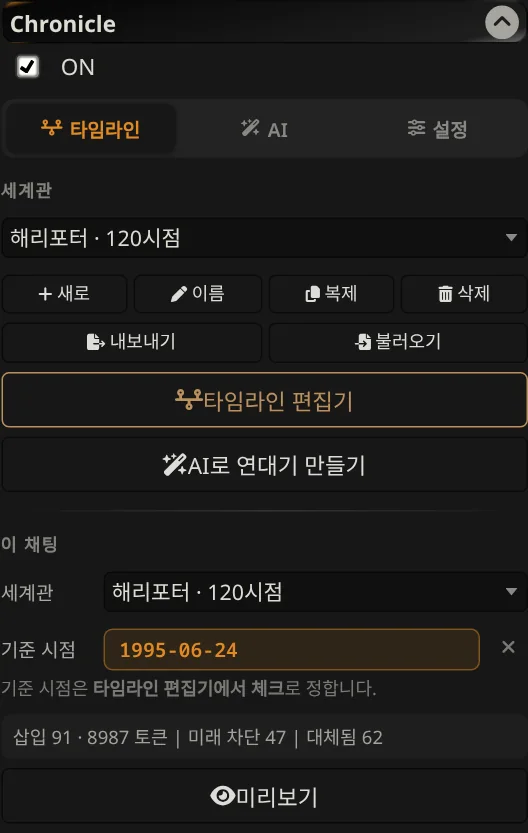
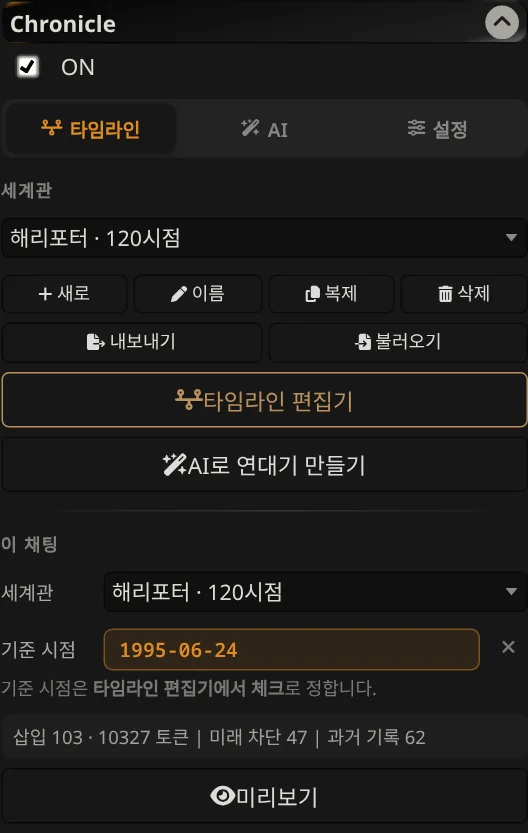
v3.3: superseded entries kept as PAST history by default; preview lists replaced entries
- New setting: replaced earlier entries → mark as PAST (default) or leave out
- Prompt note explains PAST entries are history and the latest entry is the current state
- Preview shows which entries were superseded and by which date
- Guide and screenshots updated

Claude-Session: https://claude.ai/code/session_01QCB5LBDuMd32iDADcpMM5K

Changed region(s): [[0.0909, 0.8739, 0.8182, 0.9052]]

diff --git a/index.js b/index.js
@@ -68,6 +68,11 @@ const SECRET_NOTE =
     'Entries marked SECRET are true, but hidden. Only the characters listed after "known only to" know them. ' +
     'Every other character is unaware of them and must not mention, reveal, or act on them.';
 
+/** Appended automatically when superseded entries are kept as history. */
+const PAST_NOTE =
+    'Entries marked PAST describe an earlier state of that character or relationship. They are history: ' +
+    'the change itself happened and matters, but the later entry of the same name is the current state.';
+
 const DEFAULT_AI_SYSTEM =
     'You compile a chronicle: a chronological record of a world (fictional or real) that will be used as background reference for roleplay. ' +
     'Record what happens in the world and the state of its people, relationships and setting at each point in time. ' +
@@ -123,6 +128,7 @@ const DEFAULT_SETTINGS = {
     position: 'before',
     depth: 4,
     role: 0,
+    replacedMode: 'past',     // past = keep earlier entries marked PAST | drop = leave them out
 
     header: DEFAULT_HEADER,
     debug: false,
@@ -132,7 +138,7 @@ const DEFAULT_SETTINGS = {
 
 const ADVANCED_KEYS = [
     'tokenBudget', 'recencyWeight', 'constantBonus', 'keywordBonus', 'scanDepth',
-    'position', 'depth', 'role', 'header',
+    'position', 'depth', 'role', 'header', 'replacedMode',
 ];
 
 // ==================================================================
@@ -497,11 +503,12 @@ function hasKeywordHit(block, scanText) {
     return keys.some(k => keywordMatches(String(k), scanText));
 }
 
-/** One prompt line (labels are always English) */
-function renderBlockLine(block) {
+/** One prompt line (labels are always English). pastBy = date of the entry that supersedes it. */
+function renderBlockLine(block, pastBy = '') {
     const t = BLOCK_TYPES[block.type] ?? BLOCK_TYPES.story;
     let label = t.en;
     if (t.named && block.name) label += ` (${block.name})`;
+    if (pastBy) label += ` [PAST, superseded on ${pastBy}]`;
     if (block.secret) label += block.knownBy ? ` [SECRET, known only to: ${block.knownBy}]` : ' [SECRET]';
     return `${label}: ${String(block.content).trim()}`;
 }
@@ -539,7 +546,7 @@ async function buildPacket() {
     const s = getSettings();
     const world = getActiveWorld();
     const conf = getChatConf();
-    const base = { text: '', used: [], dropped: [], excluded: 0, replaced: 0, tokens: 0, pinnedTokens: 0, world, now: conf.now };
+    const base = { text: '', used: [], dropped: [], excluded: 0, replaced: 0, replacedList: [], replacedMode: s.replacedMode, tokens: 0, pinnedTokens: 0, world, now: conf.now };
 
     if (!s.enabled || !world) return base;
 
@@ -558,22 +565,31 @@ async function buildPacket() {
         for (const b of live) candidates.push({ node, block: b.constant === undefined ? { ...b, constant: true } : b, key });
     }
 
-    // 2) "replaces earlier": drop older entries of the same person/pair
-    const latestReplace = new Map();
+    // 2) "replaces earlier": older entries of the same person/pair are superseded.
+    //    past mode → kept, marked PAST (the history of the change still matters)
+    //    drop mode → left out
+    const latestReplace = new Map(); // nameKey → { key, date }
     for (const c of candidates) {
         if (!c.block.replaces || !c.block.name) continue; // replaces only exists on named types
         const nk = nameKey(c.block);
-        if (!latestReplace.has(nk) || latestReplace.get(nk) < c.key) latestReplace.set(nk, c.key);
+        const cur = latestReplace.get(nk);
+        if (!cur || cur.key < c.key) latestReplace.set(nk, { key: c.key, date: formatDate(c.node.date) });
     }
-    let replaced = 0;
+    const replacedList = [];
+    const dropReplaced = s.replacedMode === 'drop';
     if (latestReplace.size) {
         candidates = candidates.filter(c => {
-            const lim = latestReplace.get(nameKey(c.block));
-            if (lim !== undefined && c.block.name && c.key < lim) { replaced++; return false; }
+            const lim = c.block.name ? latestReplace.get(nameKey(c.block)) : undefined;
+            if (!lim || c.key >= lim.key) return true;
+            replacedList.push({ node: c.node, block: c.block, key: c.key, by: lim.date });
+            if (dropReplaced) return false;
+            c.pastBy = lim.date;
             return true;
         });
     }
-    if (!candidates.length) return { ...base, excluded, replaced };
+    const replaced = replacedList.length;
+    const rbase = { ...base, excluded, replaced, replacedList };
+    if (!candidates.length) return rbase;
 
     // 3) inclusion (pinned or keyword hit)
     const scanText = getScanText(s.scanDepth);
@@ -583,7 +599,7 @@ async function buildPacket() {
         if (!c.block.constant && !hit) continue;
         picked.push({ ...c, hit });
     }
-    if (!picked.length) return { ...base, excluded, replaced };
+    if (!picked.length) return rbase;
 
     // 4) score — recency by rank (position in the timeline), not by date distance
     const ranks = [...new Set(picked.map(p => p.key))].sort((a, b) => a - b);
@@ -600,12 +616,11 @@ async function buildPacket() {
     // 5) fill the budget by score — the header is part of the budget too
     const nowLabel = conf.now ? formatDate(conf.now) : 'unrestricted';
     const baseHeader = String(s.header || '').replaceAll('{{now}}', nowLabel).trim();
-    const makeHead = (withSecret) => {
-        const h = withSecret ? (baseHeader ? baseHeader + '\n' : '') + SECRET_NOTE : baseHeader;
+    const makeHead = (withSecret, withPast) => {
+        const h = [baseHeader, withSecret ? SECRET_NOTE : '', withPast ? PAST_NOTE : ''].filter(Boolean).join('\n');
         return `<chronicle current_time="${esc(nowLabel)}">\n` + (h ? h + '\n\n' : '');
     };
-    const anySecret = picked.some(p => p.block.secret);
-    const reserve = await countTokens(makeHead(anySecret) + '\n</chronicle>');
+    const reserve = await countTokens(makeHead(picked.some(p => p.block.secret), picked.some(p => p.pastBy)) + '\n</chronicle>');
     const budget = Math.max(0, Number(s.tokenBudget || 0) - reserve);
     const byScore = [...picked].sort((a, b) => (b.score - a.score) || (b.key - a.key));
     const used = [], dropped = [];
@@ -614,7 +629,7 @@ async function buildPacket() {
     const pinnedNodes = new Set();
 
     for (const p of byScore) {
-        p.line = renderBlockLine(p.block);
+        p.line = renderBlockLine(p.block, p.pastBy);
         const nodeCost = seenNodes.has(p.node.id) ? 0 : 6;
         // Only run the real tokenizer when the line could still fit; a cheap
         // lower-bound estimate rules out the rest (big speed-up on large worlds).
@@ -629,7 +644,7 @@ async function buildPacket() {
         seenNodes.add(p.node.id);
         used.push(p);
     }
-    if (!used.length) return { ...base, excluded, replaced, dropped, pinnedTokens };
+    if (!used.length) return { ...rbase, dropped, pinnedTokens };
 
     // 6) output in chronological order, grouped by node
     used.sort((a, b) => (a.key - b.key)
@@ -642,13 +657,13 @@ async function buildPacket() {
         g.lines.push(p.line);
     }
 
-    const head = makeHead(used.some(p => p.block.secret));
+    const head = makeHead(used.some(p => p.block.secret), used.some(p => p.pastBy));
     const body = groups.map(g => `[${formatDate(g.node.date)}]\n${g.lines.join('\n')}`).join('\n\n');
     const text = head + body + '\n</chronicle>';
 
     // header + per-line costs already counted (cached), so no second pass over the whole text
     const tokens = total + await countTokens(head + '\n</chronicle>');
-    return { text, used, dropped, excluded, replaced, tokens, pinnedTokens, world, now: conf.now };
+    return { ...rbase, text, used, dropped, tokens, pinnedTokens };
 }
 
 // ==================================================================
@@ -1217,6 +1232,7 @@ function refreshPanel() {
     $('#chronicle_position').val(s.position);
     $('#chronicle_depth').val(s.depth);
     $('#chronicle_role').val(String(s.role));
+    $('#chronicle_replacedmode').val(s.replacedMode);
     $('#chronicle_header').val(s.header);
     $('#chronicle_debug').prop('checked', !!s.debug);
 
@@ -1231,7 +1247,7 @@ function renderStatus(packet) {
     if (!packet || !packet.world) { $el.text('이 채팅에 연결된 세계관이 없습니다.'); return; }
     const parts = [`삽입 ${packet.used.length} · ${packet.tokens} 토큰`];
     if (packet.excluded) parts.push(`미래 차단 ${packet.excluded}`);
-    if (packet.replaced) parts.push(`대체됨 ${packet.replaced}`);
+    if (packet.replaced) parts.push(packet.replacedMode === 'drop' ? `대체로 제외 ${packet.replaced}` : `과거 기록 ${packet.replaced}`);
     if (packet.dropped?.length) parts.push(`예산 초과 ${packet.dropped.length}`);
     let text = parts.join('  |  ');
     const budget = Number(getSettings().tokenBudget || 0);
@@ -1425,6 +1441,9 @@ function bindPanel() {
     $('#chronicle_role').on('change', function () {
         getSettings().role = Number($(this).val()); saveSettings(); updateInjection();
     });
+    $('#chronicle_replacedmode').on('change', function () {
+        getSettings().replacedMode = String($(this).val()); saveSettings(); updateInjection();
+    });
     $('#chronicle_header').on('input', function () {
         getSettings().header = String($(this).val()); saveSoon(); updateSoon();
     });
@@ -1500,7 +1519,7 @@ async function openPreview() {
             ${stat('삽입', packet.used.length + '개')}
             ${stat('토큰', `${packet.tokens} / ${s.tokenBudget}`)}
             ${stat('미래 차단', packet.excluded + '개')}
-            ${packet.replaced ? stat('대체됨', packet.replaced + '개') : ''}
+            ${packet.replaced ? stat(packet.replacedMode === 'drop' ? '대체로 제외' : '과거 기록', packet.replaced + '개') : ''}
         </div>
         ${over ? `<div class="chr-warnbar"><i class="fa-solid fa-triangle-exclamation"></i>핀(항상) 글만 약 ${packet.pinnedTokens} 토큰으로 예산을 넘습니다.</div>` : ''}
         <div class="chr-preview-tools">
@@ -1513,7 +1532,16 @@ async function openPreview() {
             packet.dropped.sort((a, b) => b.score - a.score).map(p =>
                 `· [${esc(formatDate(p.node.date))}] ${esc(BLOCK_TYPES[p.block.type].ko)}` +
                 `${p.block.name ? ' · ' + esc(p.block.name) : ''} — 점수 ${Math.round(p.score)}`).join('<br>') +
-            '</div>' : ''}`;
+            '</div>' : ''}
+        ${packet.replacedList?.length ? (() => {
+            const drop = packet.replacedMode === 'drop';
+            const usedIds = new Set(packet.used.map(p => p.block.id));
+            const rows = [...packet.replacedList].sort((a, b) => a.key - b.key).map(r => {
+                const state = drop ? '제외됨' : (usedIds.has(r.block.id) ? '과거 기록으로 들어감' : '조건·예산 때문에 빠짐');
+                return `· [${esc(formatDate(r.node.date))}] ${esc(BLOCK_TYPES[r.block.type].ko)} · ${esc(r.block.name)} → ${esc(r.by)} 칸으로 대체 <span class="chr-dim">(${state})</span>`;
+            });
+            return `<div class="chr-dropped chr-replaced"><b>${drop ? '대체되어 제외된 칸' : '대체되어 과거 기록으로 표시된 칸'} (${rows.length}개)</b><br>${rows.join('<br>')}</div>`;
+        })() : ''}`;
 
     const $el = $(el);
     let trDone = false, showingTr = false;
@@ -2199,7 +2227,7 @@ function renderOneBlock(b) {
                 <input type="text" class="text_pole chr-keys ${shortKey ? 'chr-warnkey' : ''}" value="${esc(b.keys.join(', '))}" placeholder="키워드 (쉼표로 구분)" title="한 글자 키워드는 엉뚱한 단어에 걸리기 쉽습니다">
                 <input type="number" class="text_pole chr-pri" value="${b.priority}" min="-100" max="100" step="5" title="고정 우선도">
                 <div class="chr-ico chr-tog ${b.secret ? 'chr-on' : ''}" data-act="secret" title="비밀 — 사실이지만 대부분의 인물이 모름"><i class="fa-solid fa-user-secret"></i></div>
-                ${t.named ? `<div class="chr-ico chr-tog ${b.replaces ? 'chr-on' : ''}" data-act="replaces" title="이전 칸 대체 — 켜면 같은 이름의 더 이전 칸은 넣지 않음"><i class="fa-solid fa-arrows-rotate"></i></div>` : ''}
+                ${t.named ? `<div class="chr-ico chr-tog ${b.replaces ? 'chr-on' : ''}" data-act="replaces" title="이전 칸 대체 — 켜면 같은 이름의 더 이전 칸은 과거 기록으로 표시됨 (설정에서 제외로 바꿀 수 있음)"><i class="fa-solid fa-arrows-rotate"></i></div>` : ''}
                 <div class="chr-ico chr-tog ${_trBlocks.has(b.id) ? 'chr-on' : ''}" data-act="block-tr" title="이 칸만 한국어로 보기 (보기 전용)"><i class="fa-solid fa-language"></i></div>
                 <div class="chr-ico" data-act="block-toggle" title="${b.enabled ? '사용 중 (누르면 끔)' : '꺼짐 (누르면 켬)'}">
                     <i class="fa-solid ${b.enabled ? 'fa-eye' : 'fa-eye-slash'}"></i>

diff --git a/docs/guide.html b/docs/guide.html
@@ -516,7 +516,7 @@
         <h1>Chronicle</h1>
         <p class="crn-sub">시간축 세계관 확장 · 사용 설명서</p>
         <div class="crn-chips">
-            <span class="crn-chip">버전 <b>3.2.1</b></span>
+            <span class="crn-chip">버전 <b>3.3.0</b></span>
             <span class="crn-chip">대상 <b>SillyTavern 1.14 이상</b></span>
             <span class="crn-chip">PC · 모바일 <b>지원</b></span>
             <span class="crn-chip">라이선스 <b>무료</b></span>
@@ -588,7 +588,7 @@
             <div class="crn-card">
                 <span class="crn-tag">SECRET · REPLACE</span>
                 <h3>비밀 칸과 대체 칸</h3>
-                <p>비밀 칸은 아는 인물을 함께 기록하며, 모르는 인물이 언급하지 않도록 안내문이 자동으로 붙는다. 대체 칸은 같은 이름의 이전 칸을 삽입에서 제외한다.</p>
+                <p>비밀 칸은 아는 인물을 함께 기록하며, 모르는 인물이 언급하지 않도록 안내문이 자동으로 붙는다. 대체 칸은 그 인물의 현재 상태가 되고, 같은 이름의 이전 칸은 과거 기록(PAST)으로 표시되어 변화 과정이 유지된다.</p>
             </div>
             <div class="crn-card">
                 <span class="crn-tag">AI BUILDER</span>
@@ -659,13 +659,13 @@
                 <p>패널의 <strong>이 채팅 → 세계관</strong>에서 세계관을 고른다. 연결 정보는 채팅 파일마다 따로 저장된다.</p>
                 <ul class="crn-list">
                     <li>같은 세계관으로 1991년 채팅과 1997년 채팅을 동시에 운용할 수 있다.</li>
-                    <li>상태 줄에 삽입 칸 수, 토큰 수, 차단·대체 칸 수가 표시된다.</li>
+                    <li>상태 줄에 삽입 칸 수, 토큰 수, 미래 차단 칸 수, 과거 기록 칸 수가 표시된다.</li>
                 </ul>
             </div>
             <div class="crn-status">
                 <div class="crn-status-row"><span>이 채팅 · 세계관</span><b>해리포터 · 120시점</b></div>
                 <div class="crn-status-row"><span>기준 시점</span><b class="is-amber">1995-06-24</b></div>
-                <div class="crn-status-line">삽입 91 · 8987 토큰 &nbsp;|&nbsp; 미래 차단 47 &nbsp;|&nbsp; 대체됨 62</div>
+                <div class="crn-status-line">삽입 103 · 10327 토큰 &nbsp;|&nbsp; 미래 차단 47 &nbsp;|&nbsp; 과거 기록 62</div>
                 <div class="crn-status-cap">상태 줄 표시 예</div>
             </div>
         </div>
@@ -677,6 +677,7 @@
                 <p><strong>[미리보기]</strong>로 실제로 모델에 전달되는 텍스트와 토큰 수를 확인한다.</p>
                 <ul class="crn-list">
                     <li>예산 때문에 제외된 칸은 아래에 점수와 함께 표시된다.</li>
+                    <li>대체된 칸은 어떤 칸으로 대체되었는지와 함께 목록으로 표시된다.</li>
                     <li><strong>[한국어로 보기]</strong>는 화면 표시만 번역한다.</li>
                 </ul>
             </div>
@@ -759,11 +760,15 @@
 <pre><span class="k">&lt;chronicle current_time="1995-06-24"&gt;</span>
 <span class="m">The following is the established chronicle of this world, up to the current point in time (1995-06-24), listed in chronological order.
 Treat every entry as canon. Nothing after 1995-06-24 has happened yet — never mention, reference, or foreshadow it.
-Entries marked SECRET are true, but hidden. …</span>
+Entries marked SECRET are true, but hidden. …
+Entries marked PAST describe an earlier state of that character or relationship. …</span>
 
 <span class="k">[1991-09-01]</span>
 <span class="s">Story:</span> Harry Potter, Ron Weasley, Hermione Granger and Neville Longbottom are sorted into Gryffindor; Draco Malfoy into Slytherin.
 <span class="c">Character (Quirinus Quirrell)</span> <span class="x">[SECRET]</span><span class="c">:</span> The Defence Against the Dark Arts teacher shares his body with Voldemort's spirit.
+
+<span class="k">[1980]</span>
+<span class="c">Character (Severus Snape)</span> <span class="m">[PAST, superseded on 1995-06-24]</span><span class="c">:</span> Snape becomes Dumbledore's spy inside the Death Eaters.
 
 <span class="k">[1995-06-24]</span>
 <span class="s">Story:</span> Voldemort regains a body in a ritual using Harry's blood. Pettigrew kills Cedric Diggory.
@@ -779,6 +784,7 @@ Entries marked SECRET are true, but hidden. …</span>
                 <tr><th>지원 환경</th><td>SillyTavern 1.14 이상 (1.19.0에서 검증), PC 및 모바일 브라우저</td></tr>
                 <tr><th>시점 형식</th><td><code>2015</code> · <code>2015-06</code> · <code>2015-06-30</code> · <code>-500</code>(기원전). 연·월 단위 시점은 그 기간 전체를 포함한다.</td></tr>
                 <tr><th>칸 옵션</th><td>항상(핀), 키워드, 고정 우선도(-100~100), 비밀(아는 인물), 대체, 사용 여부, 번역 보기</td></tr>
+                <tr><th>대체된 이전 칸</th><td>과거 기록으로 표시해서 삽입(기본) / 삽입하지 않음 — 설정 탭에서 선택</td></tr>
                 <tr><th>키워드 판정</th><td>영어: 단어 단위 · 한글 1~2자: 단어 첫머리 · 일본어·중국어 및 한글 3자 이상: 포함 여부 · <code>/정규식/</code></td></tr>
                 <tr><th>삽입 위치</th><td>프롬프트 맨 앞 / 캐릭터 정의 뒤 / 대화 속 지정 깊이. 역할: System · User · Assistant</td></tr>
                 <tr><th>기본 예산</th><td>1,500 토큰 (최신 가중치 60 · 핀 보너스 40 · 키워드 보너스 30 · 스캔 깊이 4)</td></tr>
@@ -821,7 +827,7 @@ Entries marked SECRET are true, but hidden. …</span>
         </div>
         <div class="crn-note" style="--c:var(--story)">
             <span class="crn-note-t">BUDGET</span>
-            <p>핀(항상) 칸의 합계가 토큰 예산을 넘으면 상태 줄과 미리보기에 경고가 표시된다. 예산을 늘리거나 일부 칸의 핀을 끈다.</p>
+            <p>핀(항상) 칸의 합계가 토큰 예산을 넘으면 상태 줄과 미리보기에 경고가 표시된다. 예산을 늘리거나 일부 칸의 핀을 끈다. 과거 기록 방식은 이전 칸까지 삽입하므로 토큰 사용량이 늘어난다.</p>
         </div>
     </section>
 

diff --git a/settings.html b/settings.html
@@ -209,6 +209,13 @@
                     <option value="2">Assistant</option>
                 </select>
 
+                <div class="chr-sec">대체된 이전 칸</div>
+                <select id="chronicle_replacedmode" class="text_pole">
+                    <option value="past">과거 기록으로 표시해서 넣기</option>
+                    <option value="drop">넣지 않기</option>
+                </select>
+                <small class="chr-hint">[대체]가 켜진 칸보다 이전의 같은 이름 칸을 어떻게 할지 정합니다. '과거 기록'은 변화의 흐름(예: 죽음을 먹는 자 → 첩자 → 이중 첩자)을 남기면서, 최신 칸이 현재 상태임을 AI에게 알려줍니다.</small>
+
                 <hr>
 
                 <div class="chr-sec">지시문</div>

diff --git a/style.css b/style.css
@@ -1456,3 +1456,6 @@
 .chr-editor [hidden] {
     display: none !important;
 }
+
+.chr-dropped .chr-dim { opacity: 0.6; }
+.chr-replaced { border-top: 1px solid var(--SmartThemeBorderColor); padding-top: 8px; }

diff --git a/README.md b/README.md
@@ -1,4 +1,4 @@
-# 크로니클 (Chronicle) v3.2
+# 크로니클 (Chronicle) v3.3
 
 시점 하나에 **스토리 / 인물 / 관계 / 환경** 글을 함께 묶어 연대기를 만들고,
 채팅의 **기준 시점**까지 일어난 일만 프롬프트에 넣어주는 SillyTavern 확장입니다.
@@ -72,7 +72,7 @@ https://github.com/kkangtonglove/ST-Chronicle
 | **키워드** | 쉼표로 구분. `/정규식/` 도 가능 |
 | **숫자** | 고정 우선도 (-100 ~ 100) |
 | 🕵 **비밀** | 사실이지만 대부분의 인물이 모르는 내용. 켜면 "아는 사람" 칸이 생깁니다 |
-| 🔄 **대체** | (인물·관계만) 켜면 같은 이름의 **더 이전 칸**은 넣지 않습니다. 소속·신분이 바뀐 시점에 쓰세요 |
+| 🔄 **대체** | (인물·관계만) 켜면 이 칸이 그 인물의 **현재 상태**가 됩니다. 같은 이름의 더 이전 칸은 **과거 기록**(`[PAST]`)으로 표시되어 함께 들어갑니다. 설정에서 '넣지 않기'로 바꿀 수 있습니다 |
 | 🈂 **번역** | 이 칸만 한국어로 보기 (보기 전용). 다시 누르면 숨김 |
 | 👁 | 이 칸 임시로 끄기 |
 | ✕ | 이 칸 삭제 |
@@ -171,6 +171,8 @@ Character (Alice) [SECRET, known only to: Bob]: Alice is secretly a medic for th
 
 - 맨 위 지시문은 `설정 → 지시문` 에서 바꿀 수 있습니다. `{{now}}` 는 기준 시점으로 바뀝니다.
 - 비밀 칸이 들어갈 때는 비밀 안내 문장이 자동으로 붙습니다.
+- 과거 기록 칸이 들어갈 때는 "PAST는 지난 상태이고, 같은 이름의 최신 칸이 현재 상태"라는 안내 문장이 자동으로 붙습니다.
+- 미리보기 아래에 대체된 칸 목록이 나옵니다.
 - 칸 이름(Story / Character / Relationship / Environment)은 항상 영어로 나갑니다. 내용은 쓴 그대로 나갑니다.
 
 ---
